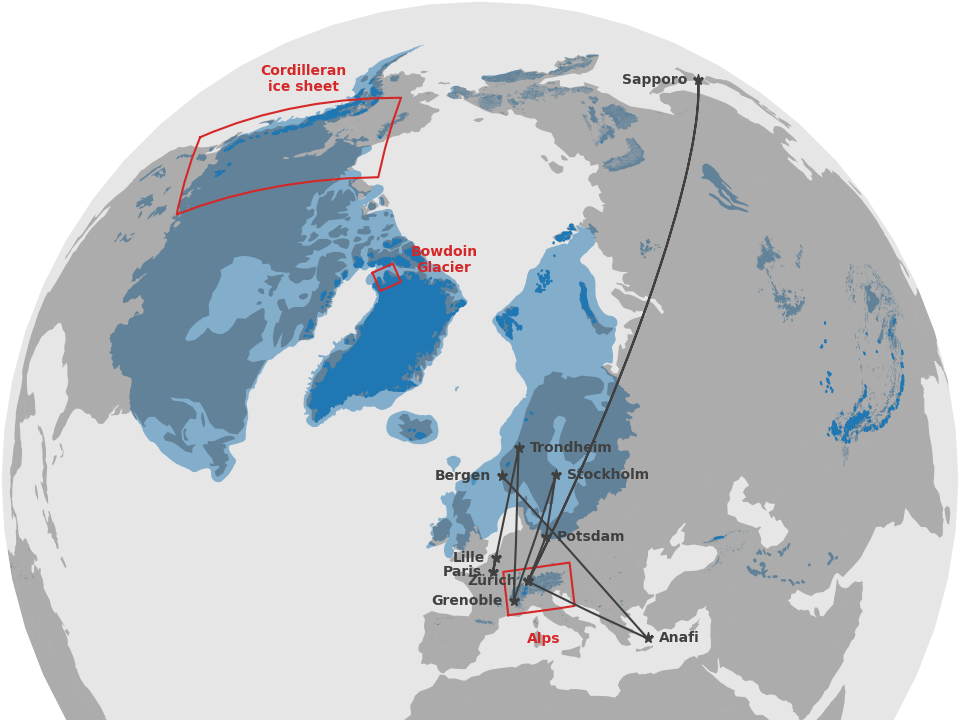
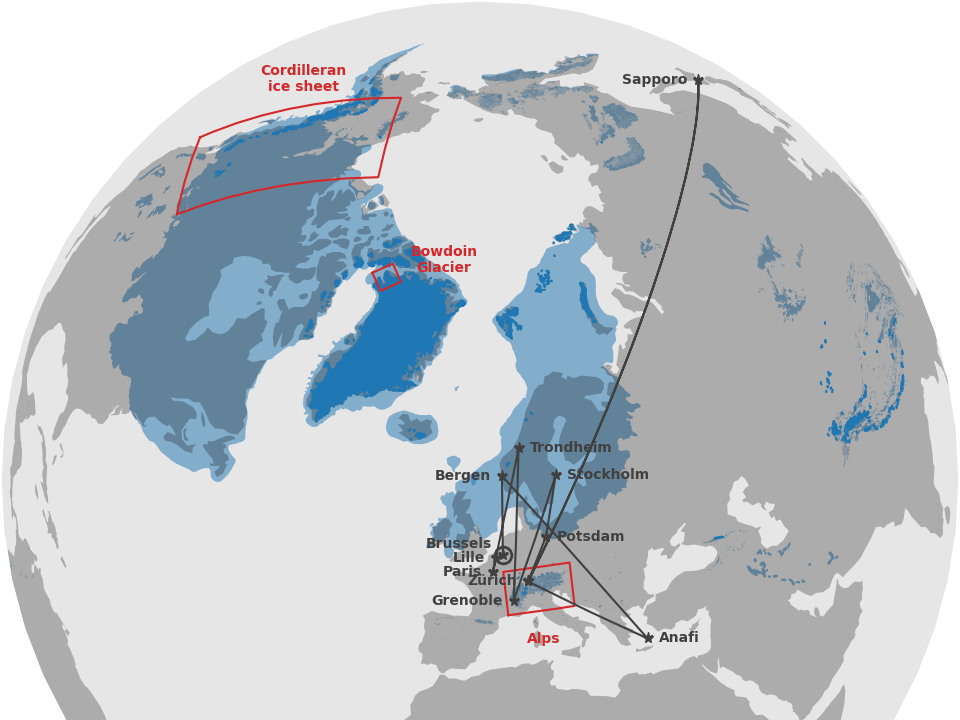
Add Hokkaido University 2025 seminar slides. (#10)
* Add erb requirement in Gemfile.

* Change site address to juseg.dev.

* Remove top margin on background iframes.

* Use hyoga paleoglaciers on worldmap.

* Add Brussels on worldmap, highlight as current.

* Add future idea and bug comments on worldmap.

* Update worldmap_workplaces.png bitmap.

* Add slides for today's talk.

diff --git a/assets/css/custom.css b/assets/css/custom.css
@@ -13,6 +13,7 @@
 
 /* iframe margin as image */
 .reveal iframe {margin: var(--r-block-margin) 0}
+.reveal .slide-background-content > iframe {margin: 0}
 
 /* columns */
 .multicol{display: flex}

diff --git a/assets/figures/worldmap.py b/assets/figures/worldmap.py
@@ -4,9 +4,9 @@
 
 import os.path
 import zipfile
+import hyoga
 import matplotlib.pyplot as plt
 import cartopy
-import hyoga.demo
 
 
 def add_countries(ax, scale=None, **kwargs):
@@ -103,6 +103,7 @@ def add_study_areas(ax, **kwargs):
 
 
 def add_workplaces(ax, **kwargs):
+    # IDEA use GeoDataFrame.to_crs() and plot midpoint arrows
     ax = ax or plt.gca()
     workplaces = {
         'Lille':     (  3.06, 50.63),
@@ -115,22 +116,26 @@ def add_workplaces(ax, **kwargs):
         'Sapporo':   (141.35, 43.07),
         '':          (  8.54, 47.37),
         'Anafi':     ( 25.80, 36.37),
-        'Bergen':    (  5.33, 60.39)}
+        'Bergen':    (  5.33, 60.39),
+        'Brussels':  (  4.35, 50.85)}
     lon, lat = zip(*workplaces.values())
     proj = cartopy.crs.Geodetic()
-    ax.plot(lon, lat, color='0.25', marker='*', ms=8,
-            transform=proj)
+    ax.plot(lon, lat, color='0.25', marker='*', ms=8, transform=proj)
+    ax.plot(
+        lon[-1], lat[-1], marker='o', mec='0.25', mew=2, mfc='none', ms=12,
+        transform=proj)
 
     # add text labels
     for name, (lon, lat) in workplaces.items():
         xtext = (8 if (lon > 10) and (lon < 90) else -8)
+        ytext = (8 if name == 'Brussels' else 0)
         ax.annotate(
             name,
-            xy=(lon, lat), xytext=(xtext, 0),
+            xy=(lon, lat), xytext=(xtext, ytext),
             xycoords=proj._as_mpl_transform(ax), textcoords='offset points',
             ha=('left' if xtext > 0 else 'right'), va='center',
-            color='0.25', fontweight='bold'
-            )
+            color='0.25', fontweight='bold')
+
 
 def main():
     """Main program called during execution."""
@@ -149,6 +154,7 @@ def main():
     ax.set_ylim((-3.2e6, 6.4e6))
 
     # add land mask
+    # FIXME hyoga.open.natural_earth().to_crs() fills are buggy on ortho proj.
     add_countries(ax=ax, alpha=0.25, facecolor='k', scale='110m')
     fig.savefig(__file__[:-3]+'_countries')
 
@@ -158,7 +164,9 @@ def main():
     fig.savefig(__file__[:-3]+'_glaciers')
 
     # add paleoglaciers
-    add_paleoglaciers(ax=ax, alpha=0.5, facecolor='tab:blue', zorder=1)
+    crs = '+proj=ortho +lon_0=0 +lat_0=60'
+    hyoga.open.paleoglaciers().to_crs(crs).plot(
+        ax=ax, alpha=0.5, facecolor='tab:blue', zorder=1)
     fig.savefig(__file__[:-3]+'_paleoglaciers')
 
     # add study areas

diff --git a/_talks/251015-hokudai-inception.md b/_talks/251015-hokudai-inception.md
@@ -1,0 +1,279 @@
+---
+date: 2025-10-15
+title: Global glacial inception threshold reveals concealed glaciation on Japanese volcanoes
+authors: J. Seguinot, M. Van Cappellen, E. Legrain, R. Aguayo, L. Van Tricht, A. Born and H. Zekollari
+description: Hokkaido University seminar
+author: Julien Seguinot, Marijke Van Cappellen, Etienne Legrain, Rodrigo Aguayo, Lander Van Tricht, Andreas Born, and Harry Zekollari
+layout: slides
+---
+
+<!-- can't be moved to template -->
+<section data-markdown data-separator-notes="^:::">
+<textarea data-template>
+
+# Global glacial inception threshold reveals <br> concealed glaciation on Japanese volcanoes
+
+<!-- .element: style="padding-top: 4em; text-shadow: 0 0 100px #000;" -->
+
+<div class="titlebox">
+
+<!-- .slide: data-background-image="https://live.staticflickr.com/65535/54855949773_43d970b093_k.jpg" -->
+
+[J. Seguinot](https://juseg.dev), M. Van Cappellen, E. Legrain, R. Aguayo, L.
+Van Tricht, A. Born, and H. Zekollari. *Hokkaido Univ.*, 15 Oct 2025.
+
+</div>
+
+---
+
+### Last glacial cycle in the Alps
+
+<!-- .element: style="display: none" -->
+
+<!-- .slide: data-background-iframe="https://player.vimeo.com/video/294517816?autoplay=1&loop=1&color=ffffff&title=0&byline=0&portrait=0#t=00s" -->
+
+---
+
+### Glaciers and paleoglaciers
+
+<div class="r-stack">
+  <img src="../assets/figures/worldmap_countries.png">
+  <img src="../assets/figures/worldmap_glaciers.png"
+    class="fragment" data-fragment-index="2">
+  <img src="../assets/figures/worldmap_paleoglaciers.png"
+    class="fragment" data-fragment-index="3">
+  <img src="../assets/figures/worldmap_workplaces.png"
+    class="fragment" data-fragment-index="5">
+</div>
+<div class="fragment" data-fragment-index="4">
+  <span style="font-size: 1.5em">-4.8±2.5°C</span></br>
+  <span style="font-size: 0.75em">(Kageyama et al., 2021)</span>
+</div>
+
+<!-- .element: class="blue fragment" style="bottom: 0; margin: 0; padding: 3em; position: absolute" -->
+
+---
+
+<!-- .slide: data-auto-animate -->
+### Alps modelling workflow
+
+<div class='flex'>
+ <div class='box flex' data-id='hyoga' style='border: none'>
+  <div>
+   <div class='box' data-id='t'>T</div>
+   <div class='box' data-id='p'>P</div>
+   <div class='box' data-id='z'>z</div>
+  </div>
+  <div data-id='arrow1'>→</div>
+  <div>
+   <div class='box blue'>Python
+    <pre>pism-palseries</pre>
+   </div>
+   <div class='box green'>GRASS GIS
+    <pre>r.in.worldclim.py</pre>
+    <pre>r.out.pism.py</pre>
+    <pre>...</pre>
+   </div>
+  </div>
+  <div>
+   <div class='box pink' data-id='pism'>PISM
+    <pre>pism-palwrapper</pre>
+   </div>
+   <div>↓</div>
+   <div class='box blue'>Python
+    <pre>cartowik</pre>
+    <pre>iceplotlib</pre>
+    <pre>...</pre>
+   </div>
+  </div>
+ </div>
+ <div data-id='arrow2'>→</div>
+ <div>
+  <div class='box' data-id='nc'>.nc</div>
+  <div class='box' data-id='pdf'>.pdf</div>
+  <div class='box' data-id='mp4'>.mp4</div>
+ </div>
+</div>
+
+---
+
+<!-- .slide: data-auto-animate data-auto-animate-duration="2s" -->
+### New modelling workflow
+
+<div class='flex'>
+ <div class='box blue flex' data-id='hyoga'>
+  <div>
+   <div class='box' data-id='t'>T</div>
+   <div class='box' data-id='p'>P</div>
+   <div class='box' data-id='z'>z</div>
+  </div>
+  <div data-id='arrow1' style='padding: 0.5em'>→</div>
+  <div class='box purple' data-id='pism'>PISM</div>
+  <div style='align-self: start; padding: 1em'>hyoga</div>
+ </div>
+ <div data-id='arrow2' style='padding: 0.5em'>→</div>
+ <div>
+  <div class='box' data-id='nc'>.nc</div>
+  <div class='box' data-id='pdf'>.pdf</div>
+  <div class='box' data-id='mp4'>.mp4</div>
+ </div>
+</div>
+
+---
+
+### Hyoga paleoglacier modelling framework
+
+```python [4-7|9-11|13-14|16-17]
+import hyoga
+import xarray
+
+# coordinate system and bounds
+domain = dict(
+    crs='epsg:32632',
+    bounds=[150e3, 4820e3, 1050e3, 5420e3])
+
+# input files
+hyoga.open.bootstrap(**domain).to_netcdf('boot.nc')
+hyoga.open.atmosphere(**domain).to_netcdf('atm.nc')
+
+# TODO run PISM
+# pismr -i boot.nc [...] -o out.nc
+
+# plot output
+xarray.open_dataset('out.nc').hyoga.plot.ice_margin()
+```
+
+User guide and API docs at https://hyoga.io.
+
+---
+
+### Online documentation
+
+<iframe data-src="https://hyoga.io" width="960" height="540"></iframe>
+
+---
+
+### Glaciation modes
+
+<div class="r-stack r-stretch">
+  <img src="../assets/figures/glopdd_cartoon_climate.png">
+  <img src="../assets/figures/glopdd_cartoon_relief.png" class="fragment">
+</div>
+
+---
+
+### Global degree-day modelling
+
+- CHELSA-W5E5 ca. 1 km input climate (T, P, σ)
+- Temperature offset +5.0, +4.8, ..., -20.0 K
+- Postive degree-day mass balance  model
+
+~
+
+→ Global **glacial inception threshold**<br>
+(temperature change needed to begin glacier growth)
+
+---
+
+### Input climatology
+
+<img class="r-stretch" src="../assets/figures/glopdd_input_cw5e5.png">
+
+---
+
+### Glacial inception threshold
+
+<img class="r-stretch" src="../assets/figures/glopdd_world_cw5e5.png">
+
+---
+
+### Glacial inception threshold
+
+<img class="r-stretch" src="../assets/figures/glopdd_local_cw5e5.png">
+
+---
+
+### Vs. current equilibrium lines
+
+<div class="r-stack r-stretch">
+  <img src="../assets/figures/glopdd_zonal_oggm.png">
+  <img src="../assets/figures/glopdd_zonal_elas.png" class="fragment">
+  <img src="../assets/figures/glopdd_zonal_cw5e5.png" class="fragment">
+</div>
+
+---
+
+### Vs. PMIP4 and LGM equilibrium lines
+
+<img class="r-stretch" src="../assets/figures/glopdd_pmip4_cw5e5.png">
+
+---
+
+### Glacial inception threshold in Japan
+
+<img class="r-stretch" src="../assets/figures/glopdd_japan_cw5e5.png">
+
+---
+
+### Regional downscaling
+
+<img class="r-stretch" src="../assets/figures/glojap_yotei_cw5e5.png">
+
+---
+
+### Glacial inception threshold in Japan
+
+<div class="multicol">
+  <div class="column">
+      <img height="540px" src="../assets/posters/poster-251029-isar8-inception.jpg">
+  </div>
+  <div class="column fragment">
+
+- Reproduced known glaciers on
+  - Honshu (*Hida*, *Kiso*, and *Akaishi*)
+  - and Hokkaido (*Hidaka*).
+
+- But also where evidence is
+  - either limited (*Daisetzu*)
+  - or missing (*Fuji* and *Ontake*).
+
+⟹ Volcanism may have hindered or overprinted the glacial record.
+
+  </div>
+</div>
+
+---
+
+### Special thanks and an anecdote
+
+<div class="multicol">
+  <div class="column">
+    <div style="background: white; padding: 0 1em">
+    <img height="270px"
+      src="https://hydr.vub.be/media/attachments/HR_6K_7E6A3254_cropped.jpg">
+      <img height="50px" src="../assets/logos/logo_bglacier.png">
+    </div>
+    <p>Glaciers, ice flow, mass balance, hydrology, blue ice, meteorites...</p>
+  </div>
+  <div class="column fragment">
+    <iframe width="400" height="540" style="margin: 0"
+      data-src="https://ishidamikio.sakura.ne.jp"></iframe>
+  </div>
+</div>
+
+---
+
+### Sensitivity to precipitation
+
+<img class="r-stretch" src="../assets/figures/glopdd_world_pdiff.png">
+
+---
+
+### Sensitivity to input climate
+
+<img class="r-stretch" src="../assets/figures/glopdd_world_sdiff.png">
+
+<!-- can't be moved to template -->
+<!-- can't be moved to template -->
+</textarea>
+</section>
